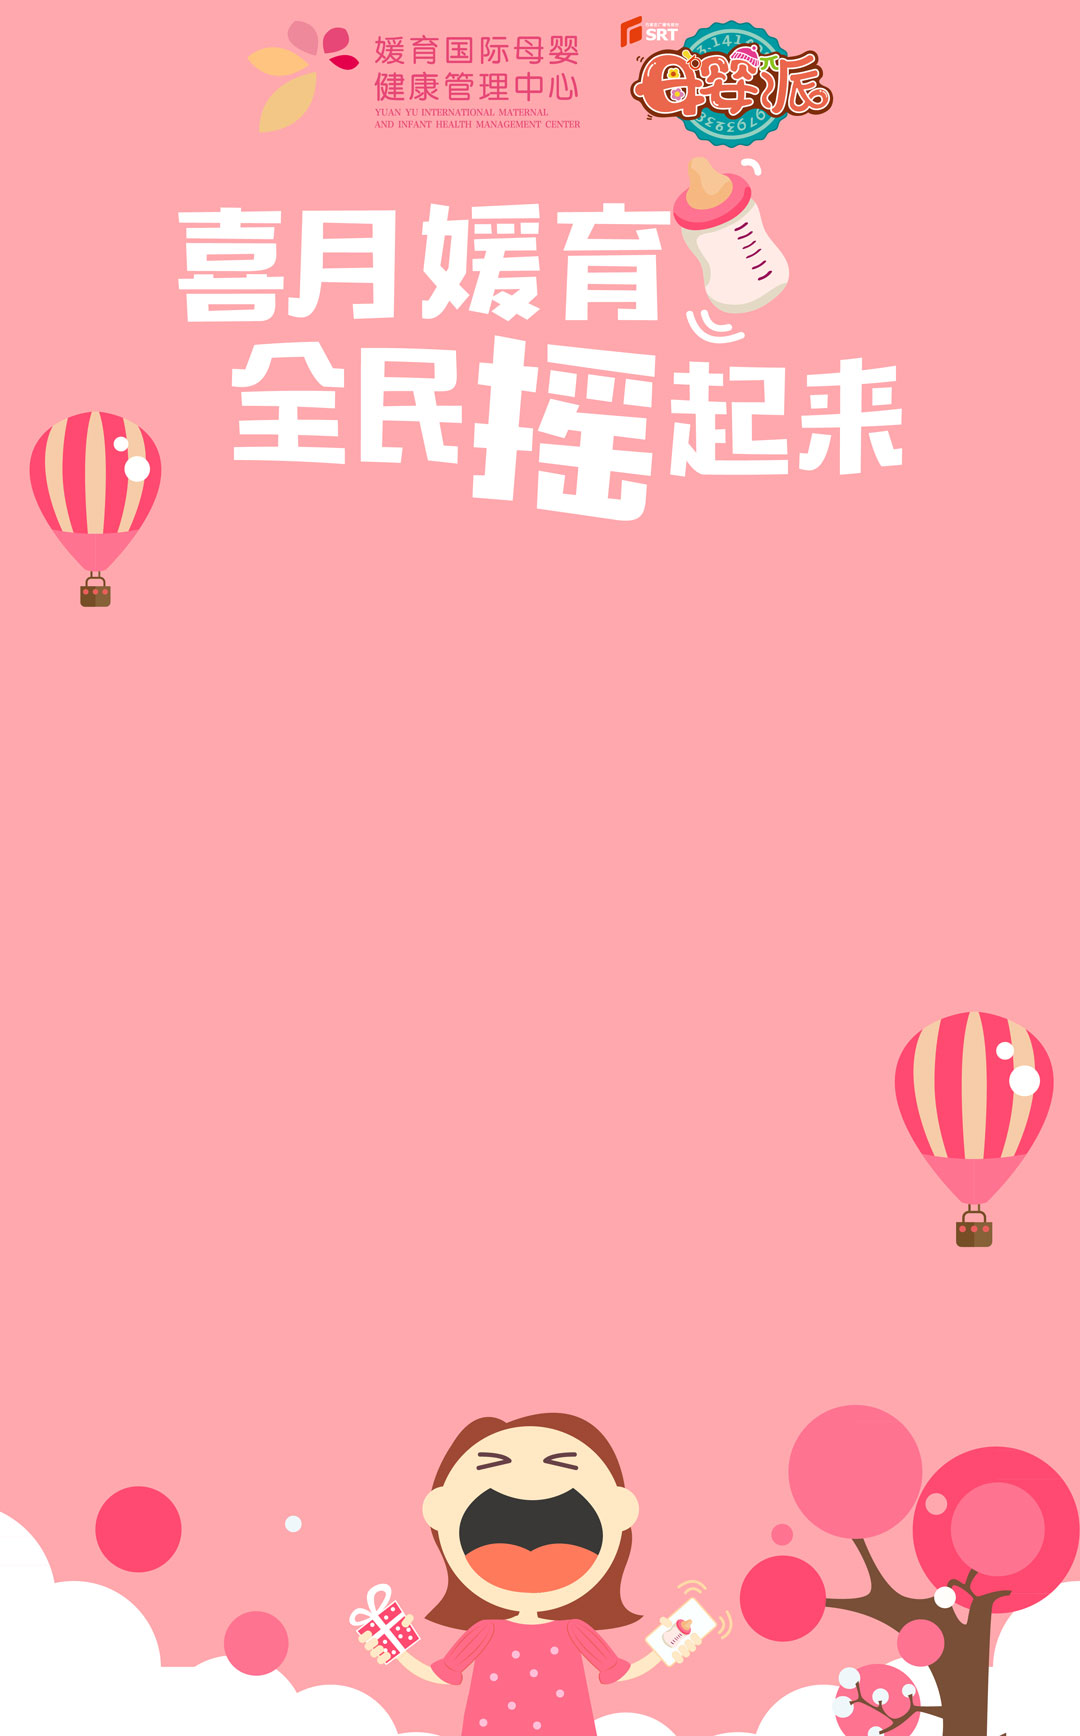
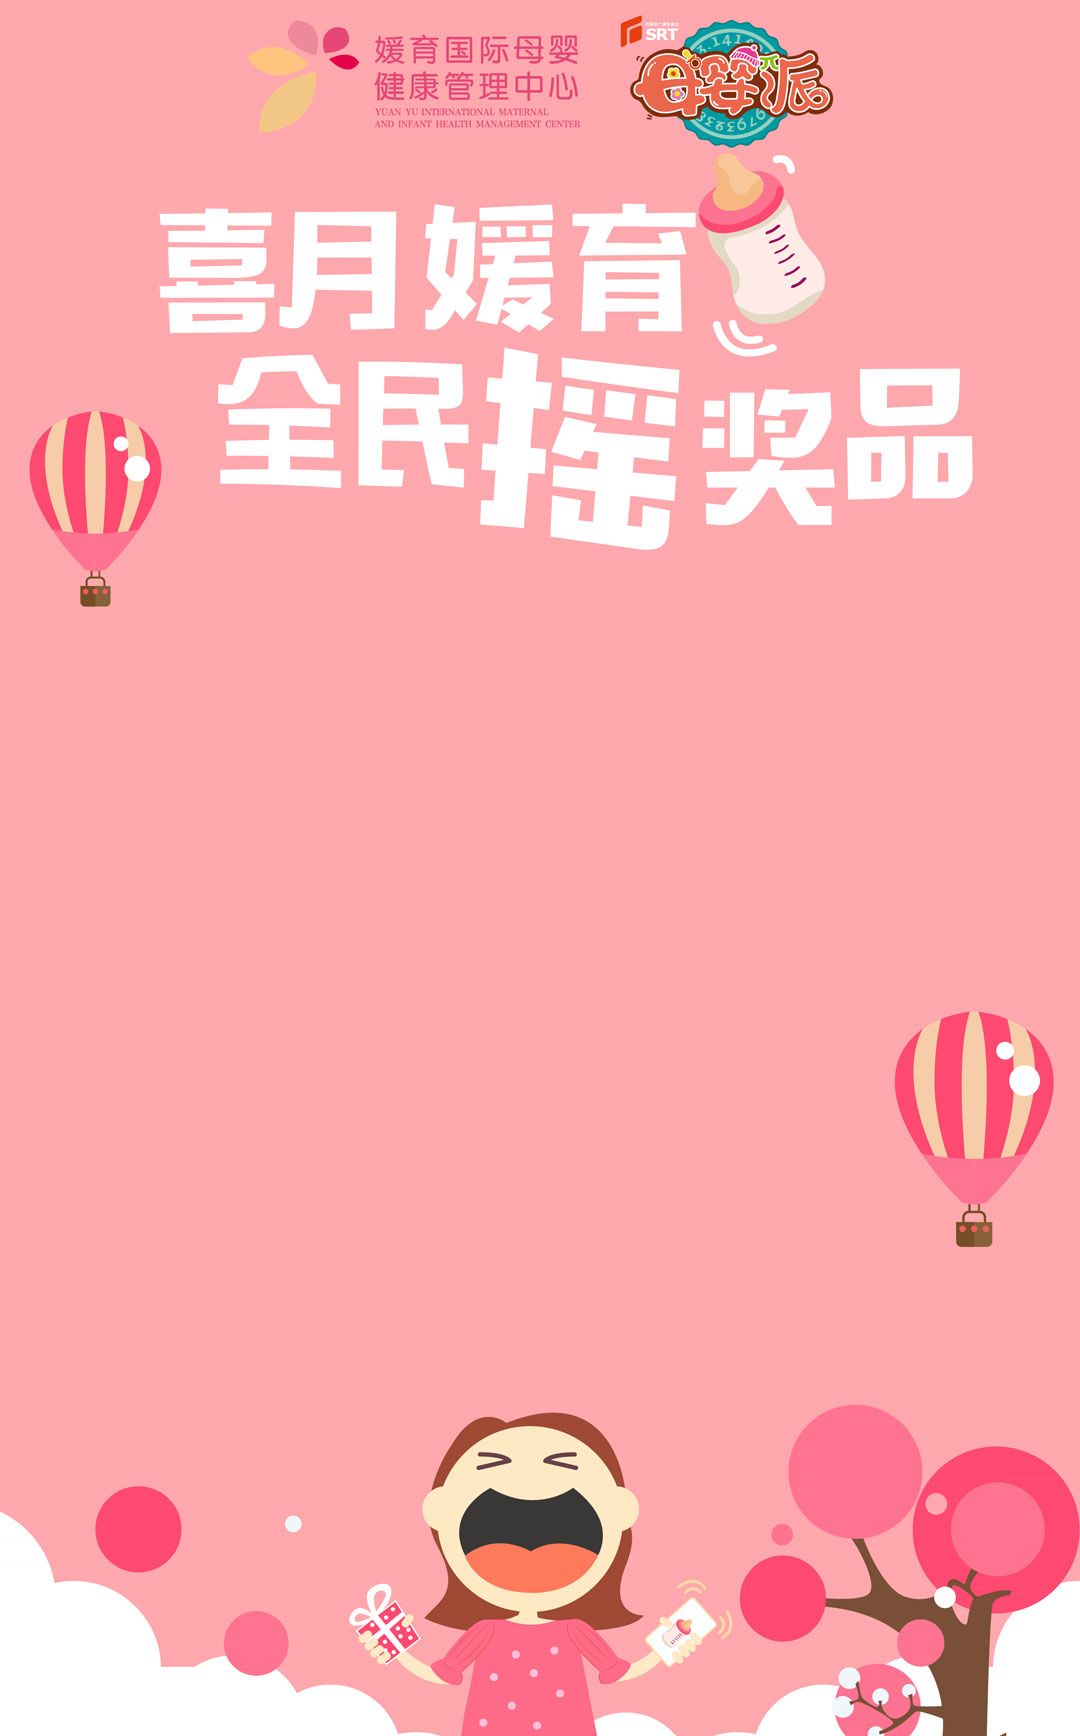
完善「我的奖品」页面功能： - 如果奖券已过期会显示过期状态； - 已过期或已兑换的奖券不显示兑换二维码；

Changed region(s): [[0.1528, 0.0, 0.9167, 0.3422]]

diff --git a/client/applications/my_prize_list/my_prize_list.html b/client/applications/my_prize_list/my_prize_list.html
@@ -7,7 +7,7 @@
             <p>1、点击使用福利券可获得兑换二维码</p>
         </div>
 
-        {{# if noPrize}}
+        {{# if noUserPrize}}
             <div class="no-prize row">
                 <div class="column">
                     亲~您还没有奖品快摇起来吧!
@@ -19,10 +19,11 @@
                 </div>
             </div>
         {{else}}
-            {{# if this}}
+            {{# if Prizes}}
                 <div class="prize-list">
-                    {{# each this}}
+                    {{# each Prizes}}
                         {{# if unUsed}}
+                            {{#if Expiryed}}
                             <div class="prize">
                                 <div class="head">
                                     {{prizeName}}
@@ -37,10 +38,11 @@
                         </span>
                                 </div>
                             </div>
+                            {{/if}}
                         {{/if}}
                     {{/each}}
 
-                    {{# each this}}
+                    {{# each Prizes}}
                         {{# if use}}
                             <div class="prize used">
                                 <div class="head">
@@ -48,7 +50,7 @@
                                 </div>
                                 <div class="foot row">
                         <span>
-                            <nobr>兑换有效期至:2016.09.13</nobr>
+                            <nobr>兑换有效期至:{{expiryDate}}</nobr>
                         </span>
                                     <span class="flex"></span>
                         <span>
@@ -58,24 +60,24 @@
                             </div>
                         {{/if}}
                     {{/each}}
-                </div>
 
-                <!--<div class="prize-list">-->
-                <!--<div class="prize used">-->
-                <!--<div class="head">-->
-                <!--港版强生婴儿牛奶沐浴露300ml-->
-                <!--</div>-->
-                <!--<div class="foot row">-->
-                <!--<span>-->
-                <!--兑换有效期至:2016.09.13-->
-                <!--</span>-->
-                <!--<span class="flex"></span>-->
-                <!--<span>-->
-                <!--已兑换-->
-                <!--</span>-->
-                <!--</div>-->
-                <!--</div>-->
-                <!--</div>-->
+                    {{# each expiryUserPrizeList}}
+                        <div class="prize used">
+                            <div class="head">
+                                {{prizeName}}
+                            </div>
+                            <div class="foot row">
+                        <span>
+                            <nobr>兑换有效期至:{{expiryDate}}</nobr>
+                        </span>
+                                <span class="flex"></span>
+                        <span>
+                            已过期
+                        </span>
+                            </div>
+                        </div>
+                    {{/each}}
+                </div>
             {{ else }}
                 <div class="not-start">
                     7月22日活动开始哦!

diff --git a/client/applications/my_prize_list/my_prize_list.js b/client/applications/my_prize_list/my_prize_list.js
@@ -1,21 +1,46 @@
 Template.myPrizeList.helpers({
+    Prizes: function () {
+        return this;
+    },
+    // 判断奖券是否已使用
     unUsed: function () {
         return !this.use;
     },
+    // 判断奖券是否已过期
+    Expiryed: function () {
+        var now = Session.get('time');
+        var currentPrize = PrizeList.findOne({_id: this.prizeId});
+        if(currentPrize.expiryDate > now) {
+            return true;
+        } else{
+            return false;
+        };
+    },
+    // 获取奖券有效期
     expiryDate: function () {
         var currentPrize = PrizeList.findOne({_id: this.prizeId});
         return moment(currentPrize.expiryDate).format('YYYY-MM-DD');
-        // return tPrize.expiryDate;
     },
-    noPrize: function () {
+    // 判断是否有可用奖券
+    noUserPrize: function () {
         var now = new Date();
-        var currentActive = Activity.findOne({_id: "8ZMopGZyyDXb33ZbR"});
+        var currentActive = Activity.findOne({_id: "RNXTbBwetwgPXXams"});
         return !this.length && (now > currentActive.startAt);
+    },
+    // 获取过期的奖券
+    expiryUserPrizeList: function () {
+        var now = Session.get('time');
+        var expiryUserPrizeList = [];
+        _.each(this, function (item) {
+            var tPrize = PrizeList.findOne({_id: item.prizeId});
+            if ( now > tPrize.expiryDate )expiryUserPrizeList.push(item);
+        });
+        return expiryUserPrizeList;
     }
 });
+
 Template.myPrizeList.events({
     'click .prize': function () {
-        // console.log(this);
         $(".qrcode-square").qrcode({
             size: 160,
             background: '#fff',
@@ -32,6 +57,8 @@ Template.myPrizeList.events({
         },300,function () {
             $(this).css('display','none')
         });
-        $(".qrcode-square canvas").remove();
+        setTimeout(function () {
+            $(".qrcode-square canvas").remove();
+        },300);
     }
 });

diff --git a/client/main.js b/client/main.js
@@ -1,3 +1,10 @@
+Meteor.startup(function () {
+    setInterval(function () {
+        Meteor.call("getServerTime", function (error, result) {
+            Session.set("time", result);
+        });
+    }, 1000);
+});
 // Meteor.startup(function () {
 //   AutoForm.setDefaultTemplate("semanticUI");
 //   SimpleSchema.messages({
@@ -34,3 +41,5 @@
 //     keyNotInSchema: "[key] 不被 schema 允许"
 //   });
 // });
+
+

diff --git a/client/main.html b/client/main.html
@@ -1,5 +1,5 @@
 <head>
-    <title>喜月媛育 全民摇起来</title>
+    <title>喜月媛育 全民摇奖品</title>
     <meta name="format-detection"content="telephone=no"/>
     <meta id="metaView" name="viewport" content="width=device-width, initial-scale=1.0, minimum-scale=1, maximum-scale=1, user-scalable=yes" />
     <!-- 微信 JD-SDK -->

diff --git a/client/lib/import/stylesheets/style.css b/client/lib/import/stylesheets/style.css
@@ -322,6 +322,8 @@ body{
   -o-filter: grayscale(100%);
   filter: grayscale(100%);
   filter: gray;
+
+  pointer-events: none;
 }
 .my-prize-list .prize.used .head{
   color: #B3B3B4 !important;

diff --git a/server/methods.js b/server/methods.js
@@ -18,5 +18,9 @@ Meteor.methods({
       }
     });
     return result;
+  },
+  getServerTime: function () {
+    var currentTime = new Date();
+    return currentTime;
   }
 });
